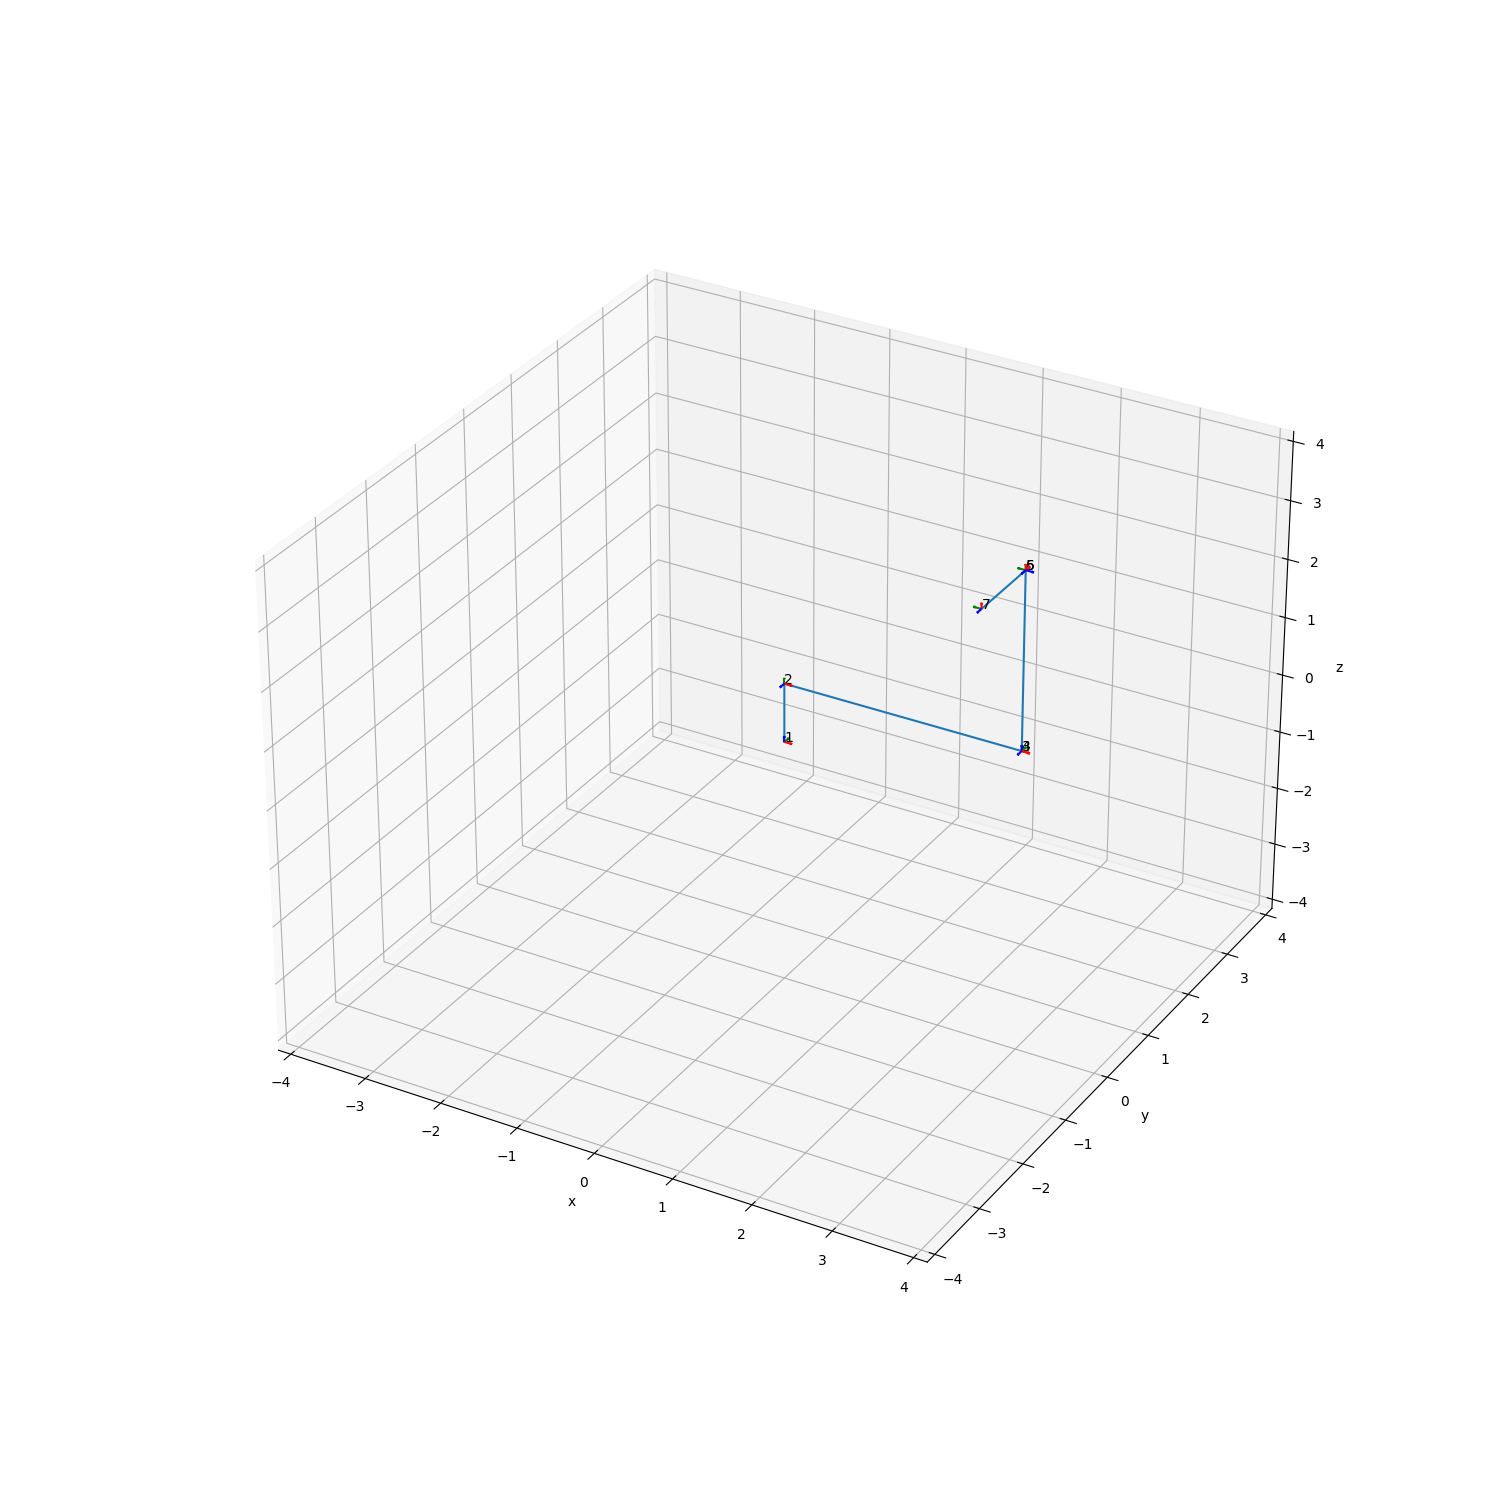
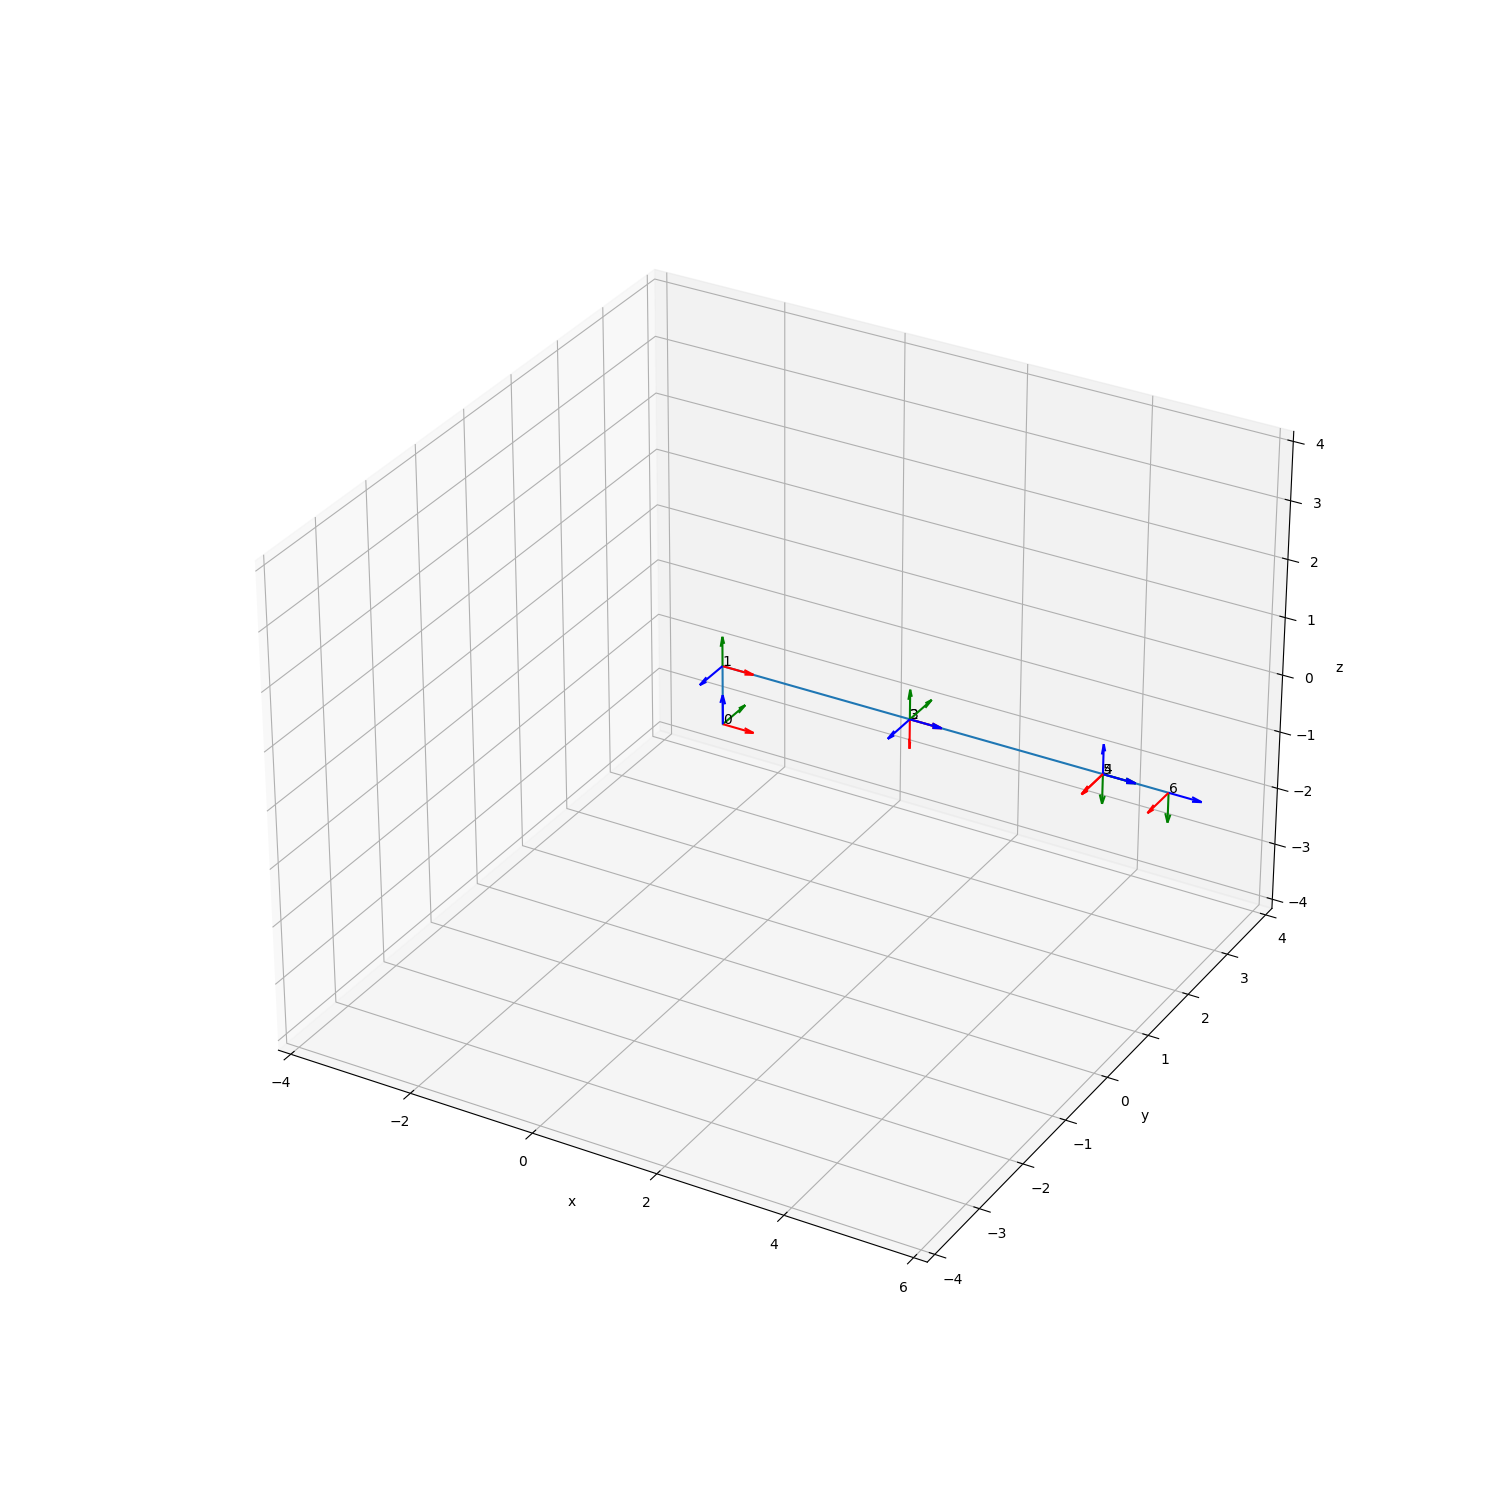
Changed DH parameters

Changed region(s): [[0.6747, 0.368, 0.7973, 0.552], [0.5827, 0.46, 0.644, 0.4907], [0.46, 0.4293, 0.4907, 0.4907]]

diff --git a/hw2/forward.py b/hw2/forward.py
@@ -14,8 +14,8 @@ def get_dh_parameters(angles: Angles) -> list[tuple[float, float, float, float]]
         # a             d                               alpha       theta
         (0,             constants.d_1,                  np.pi / 2,  angles.theta_1),
         (constants.d_2, 0,                              0,          angles.theta_2),
-        (0,             0,                              -np.pi / 2, angles.theta_3),
-        (0,             constants.d_3 + constants.d_4,  np.pi / 2,  angles.theta_4),
+        (0,             0,                              -np.pi / 2, angles.theta_3 - np.pi / 2),
+        (0,             constants.d_3 + constants.d_4,  np.pi / 2,  angles.theta_4 - np.pi / 2),
         (0,             0,                              -np.pi / 2, angles.theta_5),
         (0,             constants.d_5,                  0,          angles.theta_6)
     ]
@@ -38,7 +38,7 @@ if __name__ == '__main__':
     frames = forward_kinematics(angles_example)
 
     limit = sum(constants) / 2
-    plotter = Plotter(figure_size=(15, 15), x_limit=(-limit, limit), y_limit=(-limit, limit), z_limit=(-limit, limit))
+    plotter = Plotter(figure_size=(15, 15), x_limit=(-limit, limit + 2), y_limit=(-limit, limit), z_limit=(-limit, limit))
     plotter.plot_frames(frames)
     plotter.plot_points(frames)
     plotter.annotate_points(frames)

diff --git a/utils/plotting.py b/utils/plotting.py
@@ -38,7 +38,7 @@ class Plotter:
     def plot_arrow(self, position: np.ndarray,
                    orientation: np.ndarray,
                    color: str):
-        self.axes.quiver(*position, *orientation, length=0.1, normalize=True, color=color)
+        self.axes.quiver(*position, *orientation, length=0.5, normalize=True, color=color)
 
     def annotate_points(self, frames: Iterable[np.ndarray]):
         for i, position in enumerate(self.extract_points(frames)):
